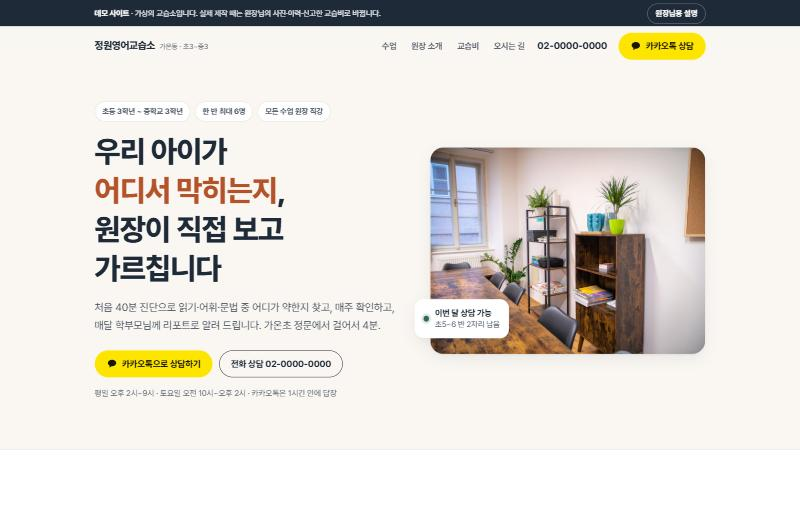
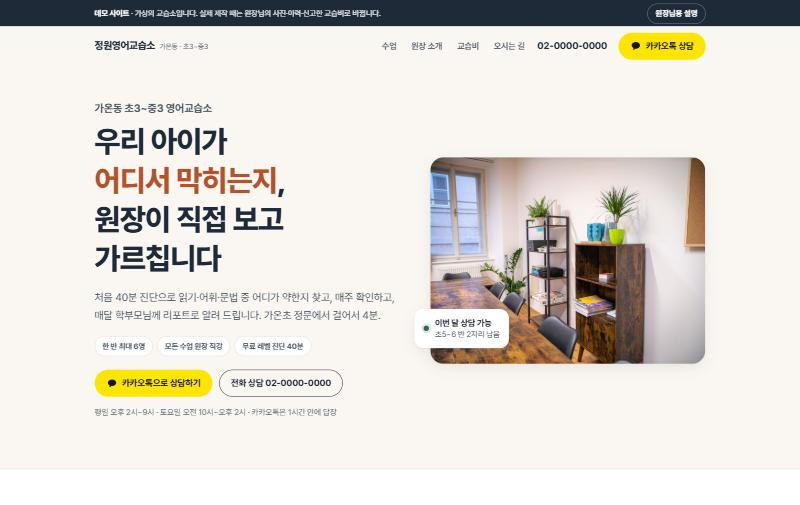
v2 마무리: 첫 화면 제목에 지역·학년·과목 명시, 화면 갱신
- H1 앞줄 '가온동 초3~중3 영어교습소', 요약 칩을 제목 아래로
- 개인정보 안내에 '수집하는 곳' 추가, 모집 현황 갱신 주기 표시
- 교습비 표 '수업' 칸 줄바꿈 방지, 오시는 길 제목 문구 정정(맞은편 → 정문에서 걸어서 4분)
- 원장 소개 사진 자르는 위치 조정, 스크린숏 최종본으로 교체

Claude-Session: https://claude.ai/code/session_01XySkmyWqQhuTdWRt7pSBQn

Changed region(s): [[0.0938, 0.2079, 0.5, 0.8317], [0.5312, 0.2673, 0.9062, 0.7426], [0.8438, 0.4455, 0.9062, 0.505]]

diff --git a/index.html b/index.html
@@ -105,11 +105,12 @@ body.owner .owner-panel{display:block}
 .hero .wrap{display:grid;gap:clamp(20px,4vw,56px);align-items:center}
 .hero-figure{order:-1}
 @media (min-width:960px){.hero .wrap{grid-template-columns:1.05fr .95fr}.hero-figure{order:0}}
-.hero-meta{display:flex;flex-wrap:wrap;gap:.5rem;margin:0 0 1.1rem;padding:0;list-style:none}
+.hero-meta{display:flex;flex-wrap:wrap;gap:.5rem;margin:1.3rem 0 0;padding:0;list-style:none}
+.hero h1 .kicker{display:block;font-size:clamp(1rem,1.7vw,1.2rem);font-weight:700;letter-spacing:-0.01em;color:var(--ink-2);margin-bottom:.7rem}
 .hero-meta li{font-size:.86rem;font-weight:700;color:var(--ink-2);background:var(--card);border:1px solid var(--line);border-radius:999px;padding:.35rem .8rem}
 .hero h1 em{font-style:normal;color:var(--accent)}
 .hero .lead{margin-top:1.1rem;max-width:34rem}
-.hero-cta{display:flex;flex-wrap:wrap;gap:.75rem;margin-top:1.8rem}
+.hero-cta{display:flex;flex-wrap:wrap;gap:.75rem;margin-top:1.5rem}
 .hero-note{margin-top:1rem;font-size:.9rem;color:var(--ink-3)}
 .hero-figure{position:relative;margin:0}
 .hero-figure img{width:100%;aspect-ratio:16/10;object-fit:cover;border-radius:var(--r-l);box-shadow:var(--shadow);background:var(--paper-2)}
@@ -345,11 +346,11 @@ body.owner .owner-off{display:inline-flex;align-items:center}
 <section class="hero" aria-labelledby="hero-title">
   <div class="wrap">
     <div>
-      <ul class="hero-meta" aria-label="교습소 요약">
-        <li>초등 3학년 ~ 중학교 3학년</li><li>한 반 최대 6명</li><li>모든 수업 원장 직강</li>
-      </ul>
-      <h1 id="hero-title">우리 아이가 <em>어디서 막히는지</em>,<br>원장이 직접 보고 가르칩니다</h1>
+      <h1 id="hero-title"><span class="kicker">가온동 초3~중3 영어교습소</span>우리 아이가 <em>어디서 막히는지</em>,<br>원장이 직접 보고 가르칩니다</h1>
       <p class="lead">처음 40분 진단으로 읽기·어휘·문법 중 어디가 약한지 찾고, 매주 확인하고, 매달 학부모님께 리포트로 알려 드립니다. 가온초 정문에서 걸어서 4분.</p>
+      <ul class="hero-meta" aria-label="교습소 요약">
+        <li>한 반 최대 6명</li><li>모든 수업 원장 직강</li><li>무료 레벨 진단 40분</li>
+      </ul>
       <div class="hero-cta">
         <a class="btn btn-kakao" href="#kakao" data-kakao data-track="kakao_hero"><svg viewBox="0 0 24 24" aria-hidden="true"><path fill="currentColor" d="M12 3.5c-5 0-9 3.1-9 7 0 2.5 1.7 4.7 4.2 5.9l-.9 3.4c-.1.3.3.6.6.4l4-2.6c.4 0 .7.1 1.1.1 5 0 9-3.1 9-7s-4-7.2-9-7.2Z"/></svg>카카오톡으로 상담하기</a>
         <a class="btn btn-line" href="tel:0200000000" data-track="call_hero">전화 상담 02-0000-0000</a>
@@ -511,6 +512,7 @@ body.owner .owner-off{display:inline-flex;align-items:center}
         <li><span><b>초등 5~6</b> · 월·수 오후 5시</span><span class="st open">2자리</span></li>
         <li><span><b>중학교</b> · 월·수·금 오후 7시</span><span class="st wait">대기 접수</span></li>
       </ul>
+      <p class="hint" style="margin-top:.6rem;font-size:.86rem;color:var(--ink-3)">모집 현황은 매달 1일에 고칩니다.</p>
     </div>
     <div data-owner>
       <span class="tag">⑤ 신고한 교습비·신고번호</span>
@@ -670,6 +672,7 @@ body.owner .owner-off{display:inline-flex;align-items:center}
       <div class="consent">
         <b>개인정보 수집·이용 안내</b>
         <ul>
+          <li>수집하는 곳: 정원영어교습소 (원장 한서진)</li>
           <li>목적: 상담 연락과 레벨 진단 일정 안내</li>
           <li>항목: 보호자 연락처, 학년, 연락 방법·시간</li>
           <li>보유 기간: 상담이 끝난 뒤 3개월 안에 파기</li>

diff --git a/README.md b/README.md
@@ -3,13 +3,13 @@
 더엔에스홀딩스(주) AX 솔루션 사업본부가 1~5인 교습소·학원용 홈페이지 상품(H-003)을 원장님께 보여 드리려고 만든 데모입니다.
 '정원영어교습소'는 가상 업체입니다. 상호·인물·주소·전화·교습비·신고번호는 실제가 아닙니다.
 
-| 모바일 첫 화면 | 수업 | 교습비·법정 표시 | 카카오톡 상담 |
+| 모바일 첫 화면 | 수업 | 교습비·법정 표시 | 원장님용 설명 켠 화면 |
 |---|---|---|---|
-| ![](docs/screenshots/m1_hero.jpg) | ![](docs/screenshots/m3_programs.jpg) | ![](docs/screenshots/m4_fees.jpg) | ![](docs/screenshots/m5_kakao.jpg) |
+| ![](docs/screenshots/m1_hero.jpg) | ![](docs/screenshots/m3_programs.jpg) | ![](docs/screenshots/m5_legal.jpg) | ![](docs/screenshots/m7_owner.jpg) |
 
 ![데스크톱 첫 화면](docs/screenshots/d1_hero.jpg)
 
-스크린숏은 2026-11-09 22:54~22:59 실제 사진·글꼴을 불러온 브라우저 화면입니다. 그 뒤 고친 두 군데(교습비 표 '수업' 칸 줄바꿈, 오시는 길 제목 문구)는 화면에 아직 반영되지 않았습니다.
+스크린숏은 실제 사진·글꼴을 불러온 브라우저 화면입니다(2026-11-09 22:56~23:07, 모바일 390×844 · 데스크톱 1440×900).
 
 ## v1 → v2에서 바뀐 것
 
